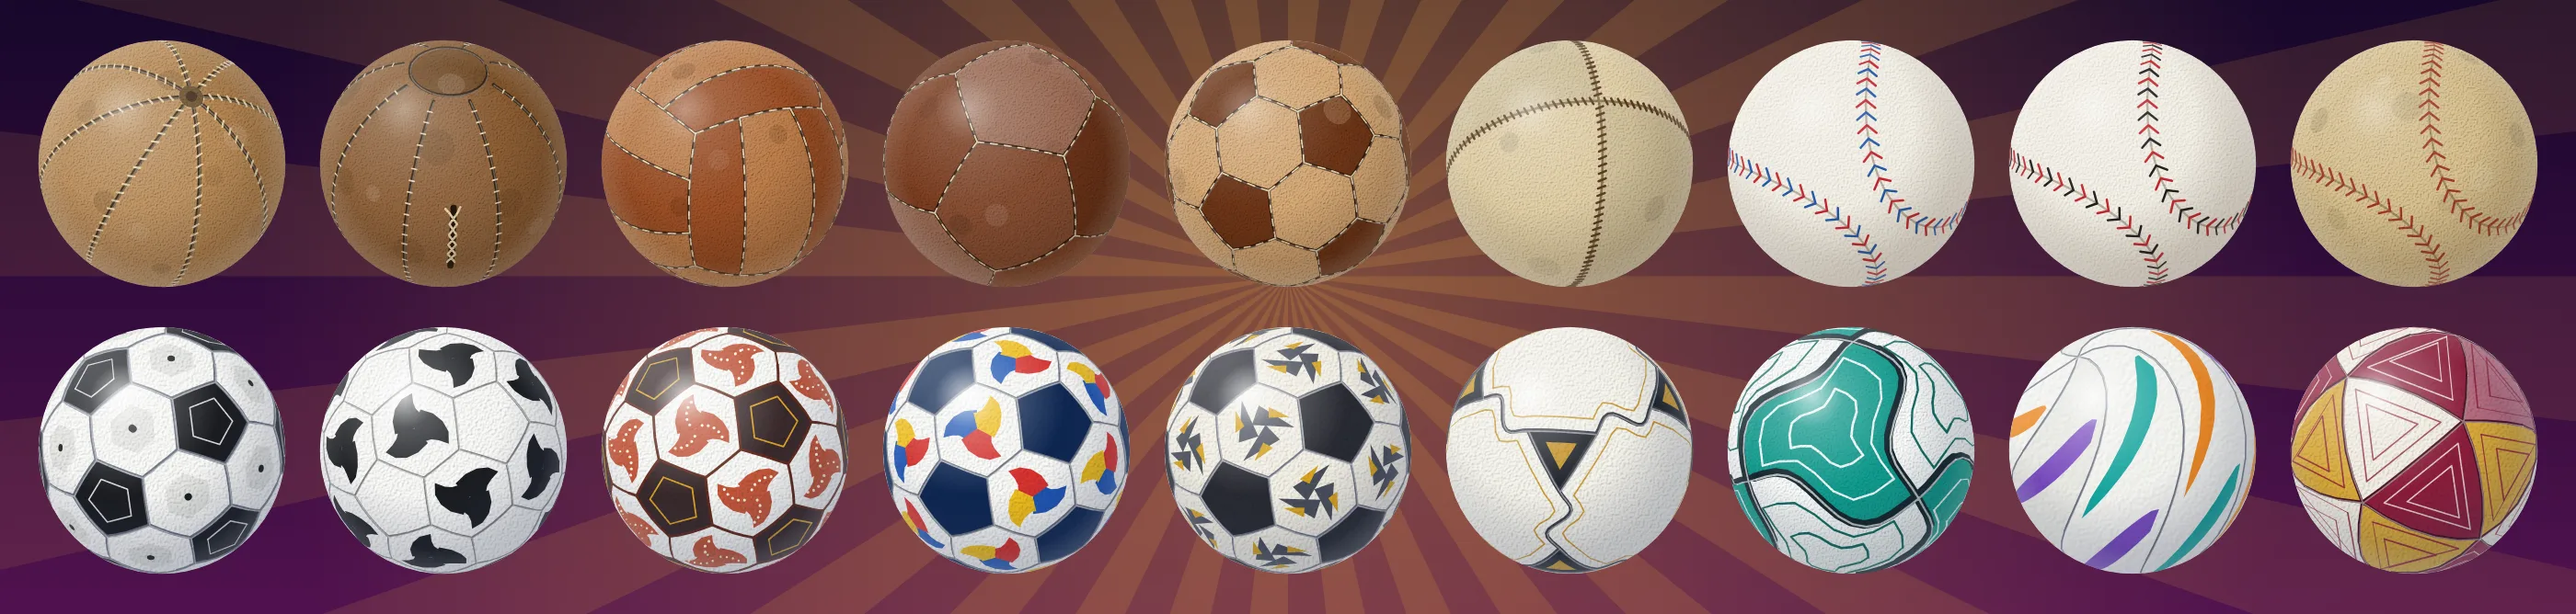
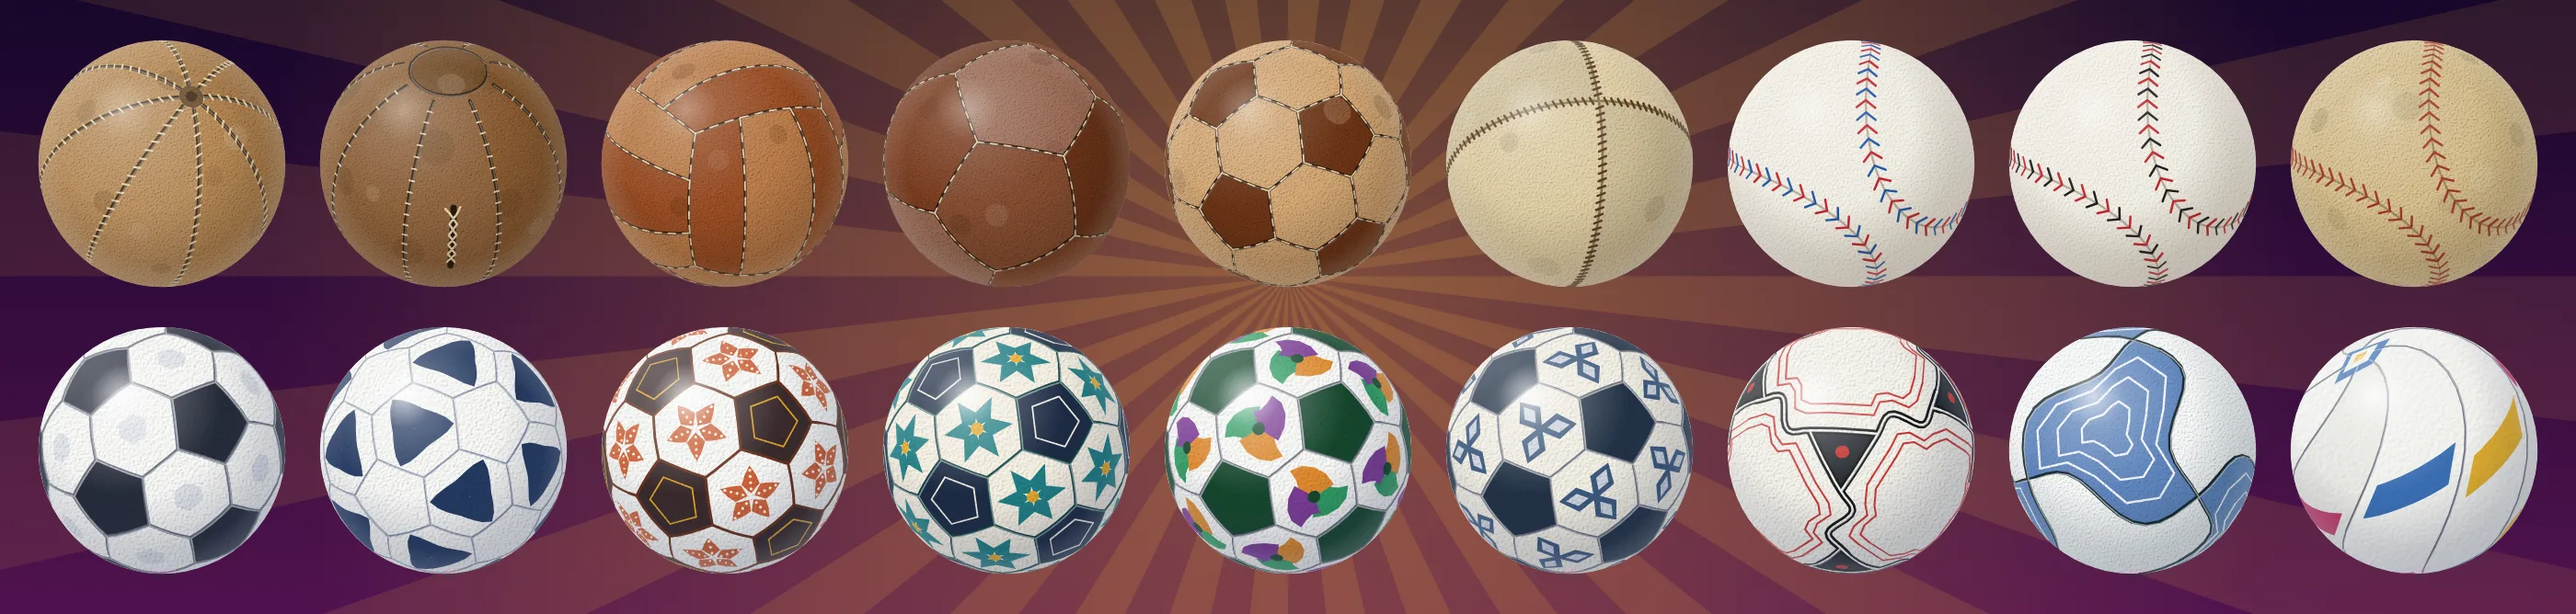
docs: famous trophies on the npm page (0.12.0)
A picture and a docs page for the named trophies, the vintage balls picture remade for the era balls, a release-checklist line for visual features, and the version bump.

diff --git a/scripts/screenshots.ts b/scripts/screenshots.ts
@@ -1,4 +1,4 @@
-// Takes the README's pictures of the demo into docs/images, as webp made in the browser: the balls, the vintage balls, the trophies with the medals and crests, the gear and the phone sheet (each light
+// Takes the README's pictures of the demo into docs/images, as webp made in the browser: the balls, the vintage balls, the trophies with the medals and crests, the famous trophies, the gear and the phone sheet (each light
 // and dark), the printed pucks, the judo suits from behind and the six steps of tying the belt (each light and dark) and four emblems turned. Every sheet stands on one of the family's shared backgrounds (scripts/family-backgrounds.ts, drawn in code, copied from taisen-brackets
 // and never edited here), in the dark or the light variant, and its labels take the ink the background returns, so they read. The grid runs edge to edge and every row is full.
 // It serves the demo on port 7210, or TEST_PORT (this package's own block, tests and tools from 7211 up) and stops the server it started. IMAGES_OUT writes somewhere else than docs/images; ONLY=name,name takes some.
@@ -111,10 +111,16 @@ try {
     "ball:tennis", "ball:padel", "ball:pickleball-outdoor", "ball:squash", "ball:racquetball", "ball:golf", "ball:cricket-red", "ball:cricket-pink", "ball:water-polo",
     "ball:sepak-takraw", "ball:shuttlecock-feather", "ball:puck", "ball:curling-stone", "ball:lacrosse", "ball:handball", "ball:table-tennis", "ball:sliotar", "ball:roundnet"]
     .map((id) => `<figure style="margin:0;display:flex;align-items:center;justify-content:center">${D.renderEmblem(id, { size: 146 })}</figure>`).join("");
-  // The vintage leather balls, four baseballs of other threads and the era-style soccer balls: eighteen, two rows of nine.
+  // The vintage leather balls, four baseballs of other threads and nine of the era-style soccer balls: eighteen, two rows of nine.
   const vintage = (D: Dist) => ["ball:soccer-1870-hand-stitched", "ball:soccer-1900-laced", "ball:soccer-1930-18-panel", "ball:soccer-1950-12-panel", "ball:soccer-1960-32-panel-leather", "ball:baseball-lemon-peel", "ball:baseball-red-blue", "ball:baseball-black-red", "ball:baseball-vintage-leather",
-    "ball:soccer-retro-pentagons", "ball:soccer-retro-leaves", "ball:soccer-retro-rosette", "ball:soccer-retro-star", "ball:soccer-retro-pinwheel", "ball:soccer-retro-kites", "ball:soccer-14-panel-double-border", "ball:soccer-8-panel-plain", "ball:soccer-6-panel-bands", "ball:soccer-20-panel-dots"]
+    "ball:soccer-retro-pentagons", "ball:soccer-retro-leaves", "ball:soccer-retro-rosette", "ball:soccer-retro-star", "ball:soccer-retro-pinwheel", "ball:soccer-retro-kites", "ball:soccer-14-panel-double-border", "ball:soccer-8-panel-plain", "ball:soccer-6-panel-bands"]
     .map((id) => `<figure style="margin:0;display:flex;align-items:center;justify-content:center">${D.renderEmblem(id, { size: 146 })}</figure>`).join("");
+  // The famous trophies, each a likeness measured on a photograph (docs/likeness.md), with its name: the world's thirteen, the leagues' own and the NHL's main ones. Thirty-six, four rows of nine.
+  const famous = (D: Dist, ink: Ink) => ([["fifa-world-cup", "FIFA World Cup"], ["stanley-cup", "Stanley Cup"], ["lombardi-trophy", "Lombardi Trophy"], ["larry-obrien-trophy", "Larry O'Brien"], ["grey-cup", "Grey Cup"], ["fa-cup", "FA Cup"], ["americas-cup", "America's Cup"], ["borg-warner-trophy", "Borg-Warner"], ["wimbledon-gentlemens-trophy", "Wimbledon"],
+    ["venus-rosewater-dish", "Rosewater Dish"], ["ballon-dor", "Ballon d'Or"], ["champions-league-trophy", "Champions League"], ["webb-ellis-cup", "Webb Ellis Cup"], ["ashes-urn", "The Ashes urn"], ["cricket-world-cup", "Cricket World Cup"], ["woodlawn-vase", "Woodlawn Vase"], ["dfb-pokal", "DFB-Pokal"],
+    ["commissioners-trophy", "Commissioner's"], ["cy-young-award", "Cy Young"], ["gold-glove-award", "Gold Glove"], ["silver-slugger-award", "Silver Slugger"], ["mlb-mvp-award", "MLB MVP"], ["world-series-mvp-trophy", "World Series MVP"], ["wnba-championship-trophy", "WNBA"], ["lamar-hunt-trophy", "Lamar Hunt"],
+    ["hart-trophy", "Hart"], ["vezina-trophy", "Vezina"], ["norris-trophy", "Norris"], ["calder-trophy", "Calder"], ["conn-smythe-trophy", "Conn Smythe"], ["art-ross-trophy", "Art Ross"], ["presidents-trophy", "Presidents'"], ["prince-of-wales-trophy", "Prince of Wales"], ["campbell-bowl", "Campbell Bowl"], ["rocket-richard-trophy", "Rocket Richard"], ["walter-cup", "Walter Cup"]] as const)
+    .map(([id, name]) => `<figure style="margin:0;display:flex;flex-direction:column;align-items:center;justify-content:center">${D.renderEmblem(`trophy:${id}`, { size: 128 })}<figcaption style="margin-top:-2px;color:${ink.muted}">${name}</figcaption></figure>`).join("");
   // Gear: thirty-six of the pieces.
   const gear = (D: Dist) => ["gear:hockey-stick", "gear:hockey-skate", "gear:goalie-mask", "gear:field-hockey-stick", "gear:lacrosse-stick", "gear:hurley", "gear:cricket-bat", "gear:wicket", "gear:baseball-bat",
     "gear:baseball-glove", "gear:football-helmet", "gear:goalposts", "gear:basketball-hoop", "gear:volleyball-net", "gear:tennis-racket", "gear:badminton-racket", "gear:table-tennis-paddle", "gear:padel-racket",
@@ -138,6 +144,7 @@ try {
     await sheet(`balls-desk-${scheme}`, { width: 1400, cols: 9, rows: [150, 150, 150, 150], scheme, preset: "floodlights", intensity: 0.9 }, balls);
     await sheet(`vintage-desk-${scheme}`, { width: 1400, cols: 9, rows: [150, 150], scheme, preset: "sunburst" }, vintage);
     await sheet(`hero-desk-${scheme}`, { width: 1400, cols: 9, rows: [152, 152, 132, 160], scheme, preset: "royal", intensity: 0.9 }, trophies);
+    await sheet(`famous-desk-${scheme}`, { width: 1400, cols: 9, rows: [160, 160, 160, 160], scheme, preset: "royal", intensity: 0.9 }, famous);
     await sheet(`gear-desk-${scheme}`, { width: 1400, cols: 9, rows: [150, 150, 150, 150], scheme, preset: scheme === "dark" ? "carbon" : "hardwood", intensity: scheme === "dark" ? 1 : 0.9 }, gear);
     await sheet(`phone-${scheme}`, { width: 390, cols: 3, rows: [124, 124, 124, 124], gap: 4, phone: true, scheme, preset: "glow" }, phoneCells);
     await sheet(`judogi-${scheme}`, { width: 1000, cols: 4, rows: [260], gap: 10, pad: 20, scheme, preset: scheme === "dark" ? "carbon" : "hardwood", intensity: scheme === "dark" ? 1 : 0.9 }, judogi);

diff --git a/src/version.ts b/src/version.ts
@@ -1,1 +1,1 @@
-export const VERSION = "0.11.0";
+export const VERSION = "0.12.0";

diff --git a/README.md b/README.md
@@ -23,7 +23,7 @@ The ball and the gear of every sport, trophies, medals, crests and the icon of e
 <p align="center">
 <picture>
 <source media="(prefers-color-scheme: dark)" srcset="https://raw.githubusercontent.com/johnmorrisdotca/dougu-sports/main/docs/images/vintage-desk-dark.webp">
-<img alt="Eighteen more balls on a warm sunburst, in two rows of nine: five vintage leather soccer balls (hand-stitched, laced, 18 strips, 12 panels, 32 panels), a lemon-peel baseball, two baseballs stitched in two colours and an aged baseball, then nine soccer balls in the style of an era, from the late 1970s to the early 2020s." src="https://raw.githubusercontent.com/johnmorrisdotca/dougu-sports/main/docs/images/vintage-desk-light.webp" width="760">
+<img alt="Eighteen more balls on a warm sunburst, in two rows of nine: five vintage leather soccer balls (hand-stitched, laced, 18 strips, 12 panels, 32 panels), a lemon-peel baseball, two baseballs stitched in two colours and an aged baseball, then nine soccer balls in the style of an era, with patterns of pentagons, leaves, a rosette, a star, a pinwheel and kites, a double border and plain white panels." src="https://raw.githubusercontent.com/johnmorrisdotca/dougu-sports/main/docs/images/vintage-desk-light.webp" width="760">
 </picture>
 </p>
 
@@ -31,6 +31,13 @@ The ball and the gear of every sport, trophies, medals, crests and the icon of e
 <picture>
 <source media="(prefers-color-scheme: dark)" srcset="https://raw.githubusercontent.com/johnmorrisdotca/dougu-sports/main/docs/images/hero-desk-dark.webp">
 <img alt="Trophies, medals and crests, in four rows of nine: nine famous cups, then a gilded cup, a phoenix-handle cup, a soccer ball trophy, a wreath, a rosette, a belt, a banner, a ring and a plaque, then three medals, three place badges and three crests, and last three cups each in metal, line and colour." src="https://raw.githubusercontent.com/johnmorrisdotca/dougu-sports/main/docs/images/hero-desk-light.webp" width="760">
+</picture>
+</p>
+
+<p align="center">
+<picture>
+<source media="(prefers-color-scheme: dark)" srcset="https://raw.githubusercontent.com/johnmorrisdotca/dougu-sports/main/docs/images/famous-desk-dark.webp">
+<img alt="Thirty-six famous trophies on royal purple, each with its name under it: the FIFA World Cup, the Stanley Cup, the Lombardi Trophy, the Larry O'Brien trophy, the Grey Cup, the FA Cup, the America's Cup, the Ashes urn and the Webb Ellis Cup among them, then the baseball awards and the NHL's Hart, Vezina, Norris and Calder trophies." src="https://raw.githubusercontent.com/johnmorrisdotca/dougu-sports/main/docs/images/famous-desk-light.webp" width="760">
 </picture>
 </p>
 
@@ -90,7 +97,7 @@ Put the string in a page (`element.innerHTML = svg`), write it to a file, or sen
 - **As an image, a sprite, a podium or a case**: `emblemDataUri` for an `<img>`, a CSS background or a canvas, `emblemSprite` to draw one emblem fifty times cheaply, `sportEquipment` for what a sport is played with, and `podium` and `awardCase` for results and trophy shelves; see [docs/compose.md](./docs/compose.md).
 - **One module per item**, so a bundler takes only what is imported; see [Use it in your project](#use-it-in-your-project).
 - **Short names and helpers**: `"cup"` is `"trophy:cup"`, `"trophy:cup/line"` is the line style, and `crest`, `medal`, `sportIcon` and `pennant` draw a team's crest, a medal, a sport's icon and a championship pennant.
-- **Named trophies**: a trophy that stands for one real trophy is drawn as a very close likeness of it, from photographs that were measured and never copied, and carries its name in its id (`trophy:paterson-cup`); `NAMED_TROPHIES` and `namedTrophy(id)` give what it honours, when it was first given and what the drawing was measured on, and no drawing carries lettering, a logo or a mark; see [docs/likeness.md](./docs/likeness.md).
+- **Named trophies**: a trophy that stands for one real trophy is drawn as a very close likeness of it, from photographs that were measured and never copied, and carries its name in its id (`trophy:paterson-cup`); `NAMED_TROPHIES` and `namedTrophy(id)` give what it honours, when it was first given and what the drawing was measured on, and no drawing carries lettering, a logo or a mark; see [famous trophies](./docs/famous-trophies.md) and [docs/likeness.md](./docs/likeness.md).
 - **Typed ids**: `EmblemId` is a union of `award:*`, `trophy:*`, `medal:*`, `crest:*`, `ball:*`, `gear:*`, `sport:*` and `pennant:*` ids.
 - **Japanese sports and budō** (道具 is the name): a sumo cup, a championship banner, and the war fan, belt, bamboo sword, kendo helmet, judo and karate suits, the white and blue judo suit flat, folded and seen from behind with its back number ([docs/judogi-back.md](./docs/judogi-back.md)), the belts of every grade and six pictures of how the belt is tied ([docs/obi-steps.md](./docs/obi-steps.md)), long bow and arrow, with Japanese names that are the governing bodies' words; see [docs/japanese-sports.md](./docs/japanese-sports.md).
 - **Made-up logos, experimental** (`@johnmorrisdotca/dougu-sports/brands`; a draft, the designs will change and it is not a supported feature yet): twelve fictional makers of balls and gear and ten fictional teams, each a bold geometric mark that stands alone (the name is optional), in colour or one colour, light and dark, with a note on the real brand it is nearest to and how it differs; a maker's mark prints on a baseball, a softball or a classic soccer ball, and a group places any logo inside your own drawing; see [docs/brands.md](./docs/brands.md).
@@ -638,7 +645,7 @@ Bug reports and ideas go in the [issues](https://github.com/johnmorrisdotca/doug
 
 ## Changes
 
-See [CHANGELOG.md](./CHANGELOG.md). 0.11.0 gives the era soccer balls neutral ids (the old ones stay as aliases), new looks and a second 1980s ball (274 emblems); 0.10.0 adds a standalone ribbon and the nets and posts of sepak takraw, netball and teqball from their rulebooks' sizes (273 emblems); 0.9.0 lets the baseball, the softball and the classic soccer balls be painted and printed: solid and two-tone colours, a logo of your own wrapped onto the ball, stamped text, an original cursive word and a small mark, all turning with the ball ([docs/custom-balls.md](./docs/custom-balls.md)); 0.8.0 makes `bindTurn` light: it takes an emblem object and then needs no registry, so a turnable cup is about 9.4 kB gzipped instead of about 81 kB, and an id loads the registry on demand; 0.7.3 turns the build, docs and picture scripts, the browser tests and the demo's source from JavaScript into TypeScript, with no change to the package; 0.7.2 makes every docs page single-language (a page in Japanese beside each page that had Japanese words in it, and a test that holds them apart), with no change to the pictures; 0.7.1 puts real countries (Canada, Japan) in the crest and puck examples in place of made-up teams, with no change to the code; 0.7.0 gives the national volleyballs layouts that tell them apart (Japan a crimson band, Poland white above and red below, the USA a navy field), strengthens the 2010-style grooved soccer ball, and adds six pictures of how the judo belt is tied, `gear:obi-step-1` to `gear:obi-step-6` (269 emblems: [docs/obi-steps.md](./docs/obi-steps.md)); 0.6.0 gives the judo suit and the karate suit their sleeves (a judogi has no short ones: they reach the wrist) and adds the judogi seen from behind with the IJF-style back number, a family name and a country code on a patch, with a `backnumber` option (269 emblems: [docs/judogi-back.md](./docs/judogi-back.md)); 0.5.1 redraws the judo suit, the belt and the football pictograms and adds the blue and folded suits and the belts of every grade (261 emblems: [docs/japanese-sports.md](./docs/japanese-sports.md)); 0.5.0 adds fifty balls: vintage leather soccer balls, era-style and shop-wall soccer balls, baseballs of other threads and volleyballs in national colours, with a `colors` option (244 emblems: [docs/vintage-balls.md](./docs/vintage-balls.md)); 0.4.0 adds eight printed pucks and a `face` option (194 emblems: [docs/pucks.md](./docs/pucks.md)); 0.3.0 adds nineteen soccer balls (26, 18, 14, 12 and 6 panels, winter orange and high-visibility yellow, futsal and beach soccer: 186 emblems); 0.2.1 draws every ball and implement to the rulebook's proportions; 0.2.0 is 167 emblems, every one drawn here, with the Japanese sports, engraving, a turn for every emblem and the compose helpers; 0.1.0 brought the first full set of 148; 0.0.1 was the first preview.
+See [CHANGELOG.md](./CHANGELOG.md). 0.12.0 adds forty-seven named trophies, each a close likeness measured on a photograph (321 emblems); 0.11.0 gives the era soccer balls neutral ids (the old ones stay as aliases), new looks and a second 1980s ball (274 emblems); 0.10.0 adds a standalone ribbon and the nets and posts of sepak takraw, netball and teqball from their rulebooks' sizes (273 emblems); 0.9.0 lets the baseball, the softball and the classic soccer balls be painted and printed: solid and two-tone colours, a logo of your own wrapped onto the ball, stamped text, an original cursive word and a small mark, all turning with the ball ([docs/custom-balls.md](./docs/custom-balls.md)); 0.8.0 makes `bindTurn` light: it takes an emblem object and then needs no registry, so a turnable cup is about 9.4 kB gzipped instead of about 81 kB, and an id loads the registry on demand; 0.7.3 turns the build, docs and picture scripts, the browser tests and the demo's source from JavaScript into TypeScript, with no change to the package; 0.7.2 makes every docs page single-language (a page in Japanese beside each page that had Japanese words in it, and a test that holds them apart), with no change to the pictures; 0.7.1 puts real countries (Canada, Japan) in the crest and puck examples in place of made-up teams, with no change to the code; 0.7.0 gives the national volleyballs layouts that tell them apart (Japan a crimson band, Poland white above and red below, the USA a navy field), strengthens the 2010-style grooved soccer ball, and adds six pictures of how the judo belt is tied, `gear:obi-step-1` to `gear:obi-step-6` (269 emblems: [docs/obi-steps.md](./docs/obi-steps.md)); 0.6.0 gives the judo suit and the karate suit their sleeves (a judogi has no short ones: they reach the wrist) and adds the judogi seen from behind with the IJF-style back number, a family name and a country code on a patch, with a `backnumber` option (269 emblems: [docs/judogi-back.md](./docs/judogi-back.md)); 0.5.1 redraws the judo suit, the belt and the football pictograms and adds the blue and folded suits and the belts of every grade (261 emblems: [docs/japanese-sports.md](./docs/japanese-sports.md)); 0.5.0 adds fifty balls: vintage leather soccer balls, era-style and shop-wall soccer balls, baseballs of other threads and volleyballs in national colours, with a `colors` option (244 emblems: [docs/vintage-balls.md](./docs/vintage-balls.md)); 0.4.0 adds eight printed pucks and a `face` option (194 emblems: [docs/pucks.md](./docs/pucks.md)); 0.3.0 adds nineteen soccer balls (26, 18, 14, 12 and 6 panels, winter orange and high-visibility yellow, futsal and beach soccer: 186 emblems); 0.2.1 draws every ball and implement to the rulebook's proportions; 0.2.0 is 167 emblems, every one drawn here, with the Japanese sports, engraving, a turn for every emblem and the compose helpers; 0.1.0 brought the first full set of 148; 0.0.1 was the first preview.
 
 ## Credits
 

diff --git a/docs/famous-trophies.md b/docs/famous-trophies.md
@@ -1,0 +1,37 @@
+# Famous trophies
+
+[Back to the README](../README.md) · English
+
+A trophy that stands for one real trophy is drawn as a very close likeness of it, so that a person who knows the trophy knows the drawing at once: the Stanley Cup's ribbed bowl and its rings, the FIFA World Cup's two figures holding up the globe, the Venus Rosewater Dish, the Commissioner's Trophy's ring of flags. The drawing is the package's own vector, made from measurements of a photograph and never traced, and it carries no lettering, no logo and no league, team or sponsor mark. The rule, the method and the references are in [drawing a trophy as a close likeness](./likeness.md) and the [sources](./likeness-sources.md).
+
+<p align="center">
+<picture>
+<source media="(prefers-color-scheme: dark)" srcset="https://raw.githubusercontent.com/johnmorrisdotca/dougu-sports/main/docs/images/famous-desk-dark.webp">
+<img alt="Thirty-six named trophies on royal purple, in four rows of nine, each with its name under it: the FIFA World Cup, the Stanley Cup, the Lombardi Trophy, the Larry O'Brien trophy, the Grey Cup, the FA Cup, the America's Cup, the Borg-Warner Trophy and the Wimbledon gentlemen's trophy; then the Venus Rosewater Dish, the Ballon d'Or, the Champions League trophy, the Webb Ellis Cup, the Ashes urn, the Cricket World Cup, the Woodlawn Vase, the DFB-Pokal and the Commissioner's Trophy; then the baseball awards (Cy Young, Gold Glove, Silver Slugger, MLB MVP, World Series MVP), the WNBA trophy, the Lamar Hunt Trophy, the Hart and the Vezina; and last the Norris, Calder, Conn Smythe, Art Ross, Presidents', Prince of Wales, Campbell Bowl, Rocket Richard and Walter Cup." src="https://raw.githubusercontent.com/johnmorrisdotca/dougu-sports/main/docs/images/famous-desk-light.webp" width="760">
+</picture>
+</p>
+
+## Draw one, and read what it is
+
+A named trophy is an emblem like any other: its id is its name, so it takes the same options (size, style, colours, turning). `namedTrophy(id)` gives the facts of the trophy the drawing stands for.
+
+```js
+import { renderEmblem } from "@johnmorrisdotca/dougu-sports";
+import { namedTrophy } from "@johnmorrisdotca/dougu-sports/emblems";
+
+const svg = renderEmblem("trophy:stanley-cup", { size: 160 });
+console.log(svg.includes("<title>Stanley Cup</title>")); // true
+
+const facts = namedTrophy("trophy:stanley-cup");
+console.log(facts.name, facts.sport, facts.first); // Stanley Cup hockey 1893
+```
+
+`NAMED_TROPHIES` lists them all, with each one's sport, competition and what it honours, so a results page can pick the emblem for an award by its name.
+
+## What is drawn
+
+- **The world's most famous trophies:** the FIFA World Cup, the Woodlawn Vase, the Borg-Warner Trophy, the FA Cup, the America's Cup, the Cricket World Cup, the Gentlemen's Singles Trophy of Wimbledon, the Venus Rosewater Dish, the Ballon d'Or, the DFB-Pokal, the Ashes urn, the Webb Ellis Cup and the UEFA Champions League trophy.
+- **The NHL's:** the Stanley Cup and the Hart, Vezina, Norris, Calder, Art Ross, Conn Smythe, Lady Byng, Selke, Jennings, Masterton, King Clancy, Jack Adams, Presidents', Prince of Wales, Campbell Bowl, Rocket Richard, Ted Lindsay and Lester Patrick trophies, and the Paterson Cup of the PCHA (1912).
+- **The other leagues':** the Lombardi Trophy, the Larry O'Brien Championship Trophy, the Commissioner's Trophy, the Grey Cup, the Cy Young, Gold Glove, Silver Slugger, MLB MVP and World Series MVP awards, the Walter Cup, the WNBA Championship Trophy, the Lamar Hunt Trophy, the Avco World Trophy and the O'Brien Cup.
+
+What is still to draw, for want of a usable photograph, is listed in the [trophy audit](./trophy-audit.md), which also says which award of which league has an emblem.

diff --git a/CHANGELOG.md b/CHANGELOG.md
@@ -6,8 +6,11 @@ All notable changes to this project are written here. The format follows
 
 ## [Unreleased]
 
+## [0.12.0] - 2026-10-19
+
 ### Changed
 
+- **The README and the docs show the famous trophies.** A new picture of thirty-six named trophies with their names, a new page, `docs/famous-trophies.md` (what it is, a short example, what is drawn), the vintage balls picture remade for the era balls of 0.11.0, and a release-checklist line in `CONTRIBUTING.md` for a release that adds something to look at. `ONLY=<name> node scripts/screenshots.ts` takes one picture.
 - **A trophy that stands for one real trophy is drawn as a very close likeness of it, and may carry its name.** The rule, the method and the tools are in `docs/likeness.md`: photographs are the reference, the proportions are measured on them and checked side by side at the same height, the drawing is our own vector and never a trace, and no drawing carries lettering, a logo, a league, team or sponsor mark or a real engraving. This replaces the earlier rule that no id or title may be a real trophy's name (`CONTRIBUTING.md`, `docs/references.md`, `test/emblem.test.ts`); the generic trophies (`trophy:hockey-cup` and the rest) stay as they are.
 
 ### Added

diff --git a/CONTRIBUTING.md b/CONTRIBUTING.md
@@ -56,6 +56,10 @@ pnpm screenshots    # the README's pictures, into docs/images
 pnpm dev            # the demo on http://127.0.0.1:7200/ (and /gallery.html)
 ```
 
+## A release that adds something to look at
+
+New visual feature (a trophy, a ball series, a uniform or gear, a style)? Update the README images (`pnpm screenshots`, or `ONLY=<name> node scripts/screenshots.ts` for one) and add a showcase section to the docs if the current examples do not show it well, linked from the README. A small fix or an internal change needs neither.
+
 ## Releasing
 
 Maintainers bump the version in `package.json` and in `src/version.ts`, move *Unreleased* to the new version in
